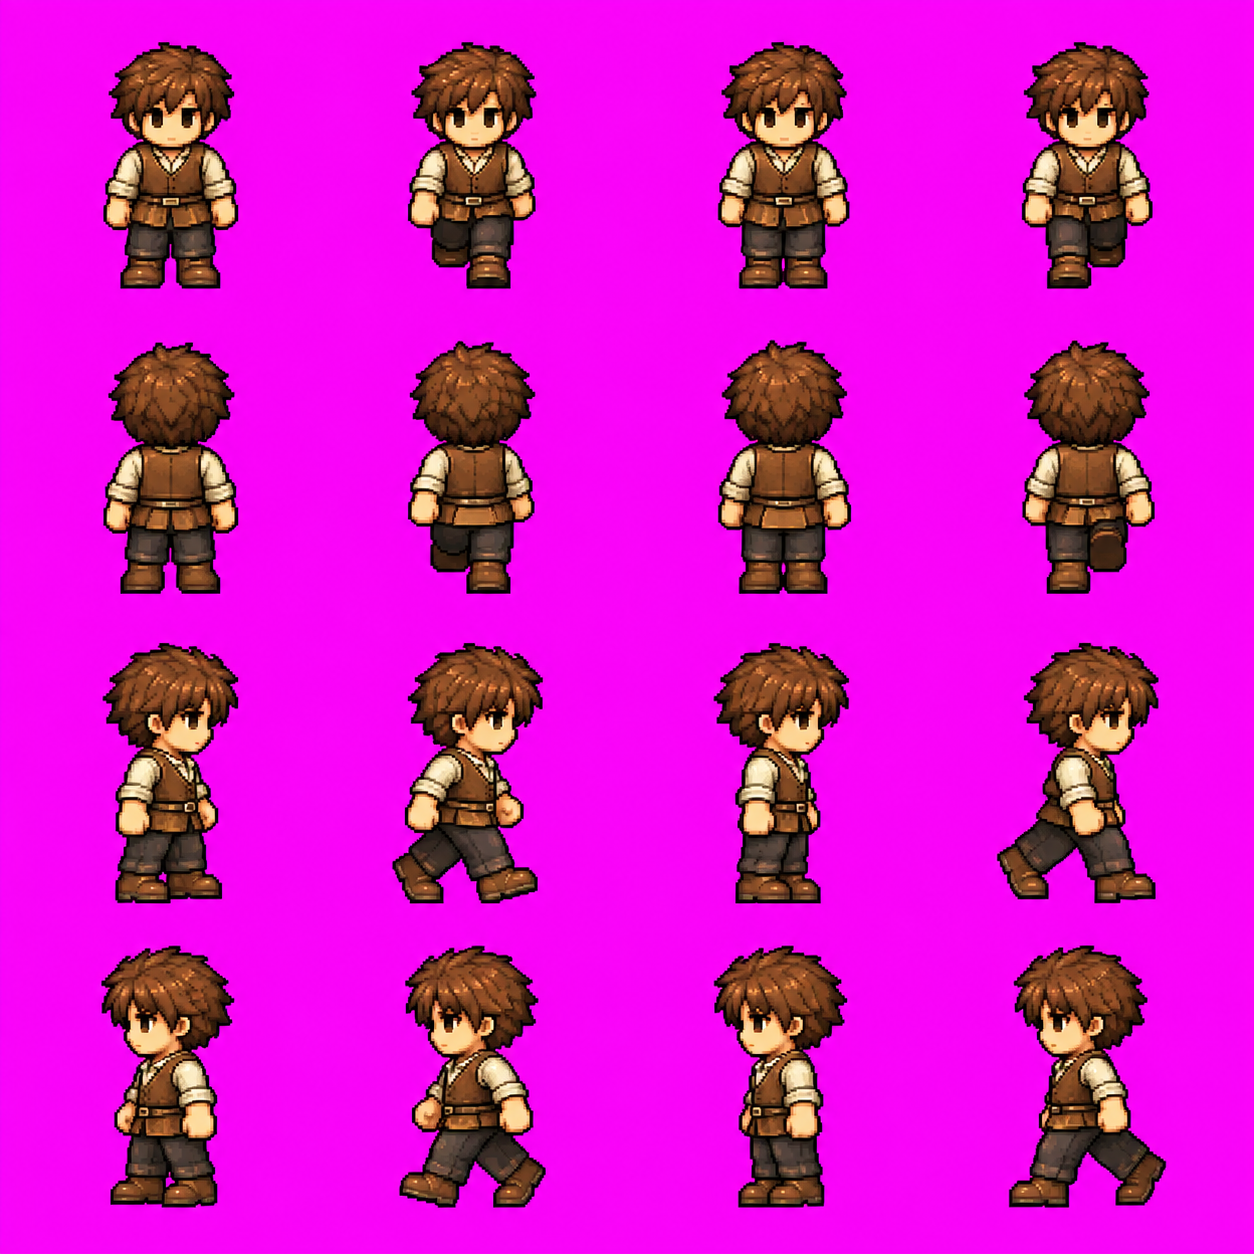
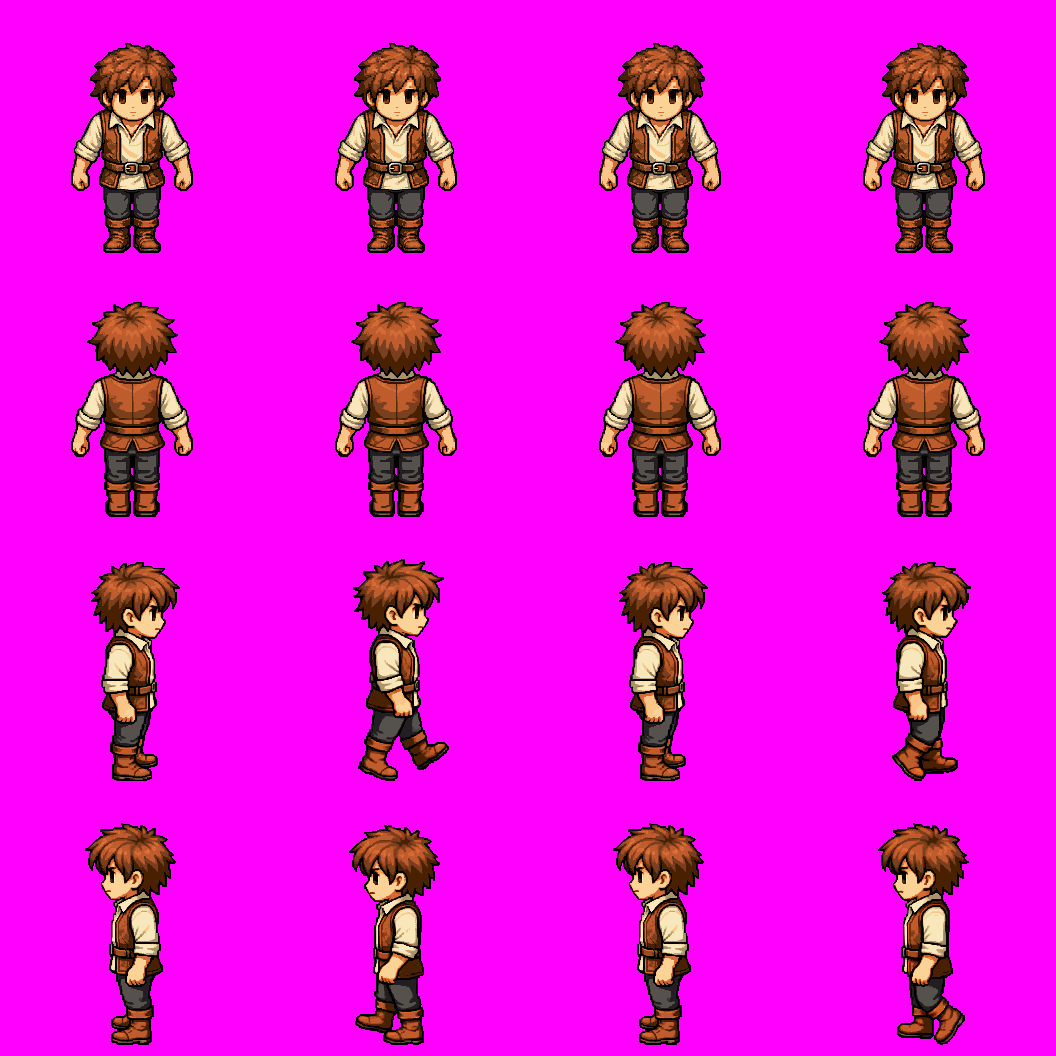
Re-render Joey's overworld sprite on Kai's proportions
Adds tools/rerender_overworld_sheets.py, which composes reviewed PixelLab
rotations and side walks (tools/overworld_sources/<name>/) into the
authored 4x4 sheet or the trainers' 1x4 strip. Joey was redrawn from Kai's
standing frame (text edit, then a reference edit for identity), rotated to
four facings and given side walks; head/body is now 0.31 against Kai's
0.28. The remaining townsfolk and route trainers follow.

Claude-Session: https://claude.ai/code/session_01WCxBFvPvUBd3fP3stnACE7

diff --git a/tools/rerender_overworld_sheets.py b/tools/rerender_overworld_sheets.py
@@ -1,0 +1,111 @@
+"""Compose overworld sheets for characters re-rendered on Kai's proportions.
+
+Sources (tools/overworld_sources/<name>/) are reviewed PixelLab outputs: a
+standing rotation per facing (rot_<facing>.png) and four-frame side walks
+(walk_<east|west>_<n>.png). Deterministic; never edits art pixels beyond
+alignment and keying.
+
+* Authored NPCs -> game/assets/overworld/<name>.png, the 4x4 magenta-keyed
+  layout build_overworld_metadata.py reads: rows down, up, east, west;
+  columns idle, left contact, idle, right contact (front and back rows
+  repeat the idle pose: NPCs only ever stand).
+* Route trainers -> game/assets/route01/<name>_overworld.png, a 1x4 alpha
+  strip (down, up, east, west), with characters.json frame size and foot
+  anchor updated to match.
+
+Then run build_overworld_metadata.py and audit_character_scale.py --write.
+
+    python tools/rerender_overworld_sheets.py
+"""
+from __future__ import annotations
+
+import json
+from pathlib import Path
+
+import numpy as np
+from PIL import Image
+
+ROOT = Path(__file__).resolve().parents[1]
+SOURCES = ROOT / "tools/overworld_sources"
+AUTHORED = ROOT / "game/assets/overworld"
+CHARACTERS = ROOT / "game/assets/rework/characters.json"
+TRAINERS = {"rowan": "route01_rowan", "squire": "route01_squire", "challenger": "route01_challenger"}
+FOOT_MARGIN = 12
+MAGENTA = (255, 0, 255)
+
+
+def _load(path: Path) -> np.ndarray:
+    return np.asarray(Image.open(path).convert("RGBA"))
+
+
+def _anchor(rgba: np.ndarray) -> tuple[float, int]:
+    """Torso centre x (head and body, ignoring striding legs) and foot y."""
+    ys, xs = np.nonzero(rgba[:, :, 3] >= 128)
+    top, bottom = ys.min(), ys.max()
+    upper = ys < top + (bottom - top) * 0.6
+    return float(xs[upper].mean()), int(bottom)
+
+
+def _place(cell: int, rgba: np.ndarray) -> np.ndarray:
+    out = np.zeros((cell, cell, 4), np.uint8)
+    cx, foot = _anchor(rgba)
+    dx, dy = round(cell / 2 - cx), cell - FOOT_MARGIN - foot
+    h, w = rgba.shape[:2]
+    ys, xs = np.mgrid[0:h, 0:w]
+    tx, ty = xs + dx, ys + dy
+    ok = (tx >= 0) & (tx < cell) & (ty >= 0) & (ty < cell) & (rgba[:, :, 3] > 0)
+    out[ty[ok], tx[ok]] = rgba[ok]
+    return out
+
+
+def _frames(name: str) -> dict:
+    folder = SOURCES / name
+    rot = {facing: _load(folder / f"rot_{facing}.png") for facing in ("south", "north", "east", "west")}
+    walks = {side: [_load(folder / f"walk_{side}_{i}.png") for i in range(4)] for side in ("east", "west")}
+    return {"down": [rot["south"]] * 4, "up": [rot["north"]] * 4,
+            "east": [rot["east"], walks["east"][0], rot["east"], walks["east"][2]],
+            "west": [rot["west"], walks["west"][0], rot["west"], walks["west"][2]]}
+
+
+def _cell(frames) -> int:
+    extent = 0
+    for image in frames:
+        ys, xs = np.nonzero(image[:, :, 3] >= 128)
+        extent = max(extent, xs.max() - xs.min() + 24, ys.max() - ys.min() + FOOT_MARGIN + 24)
+    return int(max(256, np.ceil(extent / 8) * 8))
+
+
+def build_authored(name: str) -> None:
+    frames = _frames(name)
+    cell = _cell([f for row in frames.values() for f in row])
+    sheet = np.zeros((cell * 4, cell * 4, 4), np.uint8)
+    for row, facing in enumerate(("down", "up", "east", "west")):
+        for column, image in enumerate(frames[facing]):
+            sheet[row * cell:(row + 1) * cell, column * cell:(column + 1) * cell] = _place(cell, image)
+    # Hard alpha onto the magenta key the authored sheets and shader use.
+    rgb = np.where(sheet[:, :, 3:4] >= 128, sheet[:, :, :3], np.array(MAGENTA, np.uint8))
+    Image.fromarray(rgb.astype(np.uint8), "RGB").save(AUTHORED / f"{name}.png", optimize=True)
+
+
+def build_trainer(name: str, record: dict) -> None:
+    folder = SOURCES / name
+    frames = [_load(folder / f"rot_{facing}.png") for facing in ("south", "north", "east", "west")]
+    cell = _cell(frames)
+    strip = np.concatenate([_place(cell, image) for image in frames], axis=1)
+    Image.fromarray(strip, "RGBA").save(ROOT / "game" / record["atlas"].removeprefix("res://"), optimize=True)
+    record["frame_size"] = [cell, cell]
+    record["foot_anchor"] = [cell // 2, cell - FOOT_MARGIN]
+
+
+def main() -> None:
+    characters = json.loads(CHARACTERS.read_text())
+    for folder in sorted(p for p in SOURCES.iterdir() if p.is_dir()):
+        if folder.name in TRAINERS:
+            build_trainer(folder.name, characters["characters"][TRAINERS[folder.name]]["overworld"])
+        else:
+            build_authored(folder.name)
+    CHARACTERS.write_text(json.dumps(characters, indent=2) + "\n")
+
+
+if __name__ == "__main__":
+    main()
